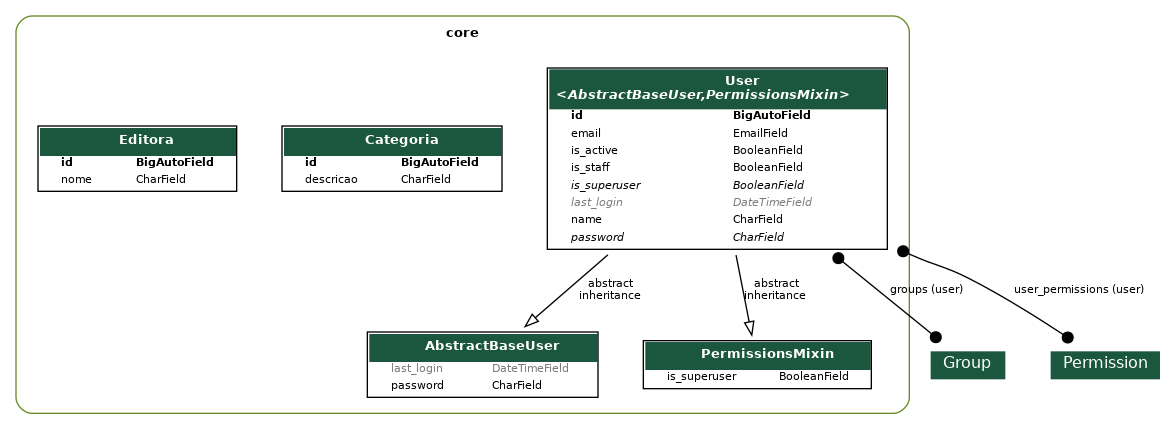
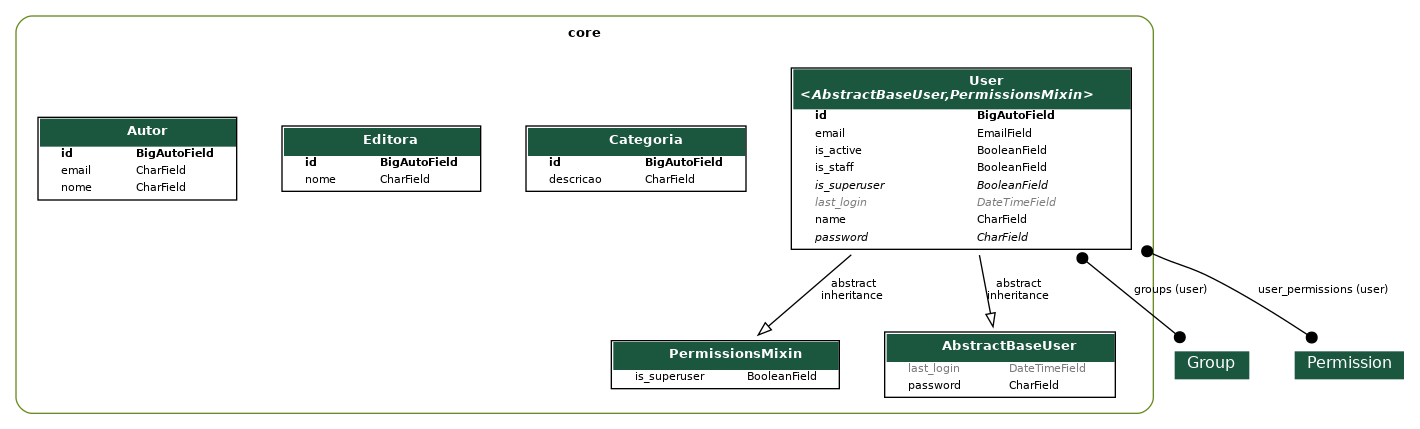
Criação API para classe autor

diff --git a/app/urls.py b/app/urls.py
@@ -9,13 +9,14 @@ from drf_spectacular.views import (
 from rest_framework.routers import DefaultRouter
 from rest_framework_simplejwt.views import TokenObtainPairView, TokenRefreshView
 
-from core.views import UserViewSet, CategoriaViewSet, EditoraViewSet
+from core.views import UserViewSet, CategoriaViewSet, EditoraViewSet, AutorViewSet
 
 router = DefaultRouter()
 
 router.register(r"users", UserViewSet, basename="users")
 router.register(r"categorias", CategoriaViewSet, basename="categorias")
 router.register(r"editoras", EditoraViewSet, basename="editoras")
+router.register(r"autores", AutorViewSet, basename="autores")
 
 urlpatterns = [
     path("admin/", admin.site.urls),

diff --git a/core/migrations/0004_autor.py b/core/migrations/0004_autor.py
@@ -1,0 +1,21 @@
+# Generated by Django 5.0.2 on 2024-03-18 14:17
+
+from django.db import migrations, models
+
+
+class Migration(migrations.Migration):
+
+    dependencies = [
+        ("core", "0003_editora"),
+    ]
+
+    operations = [
+        migrations.CreateModel(
+            name="Autor",
+            fields=[
+                ("id", models.BigAutoField(auto_created=True, primary_key=True, serialize=False, verbose_name="ID")),
+                ("nome", models.CharField(max_length=100)),
+                ("email", models.CharField(max_length=100)),
+            ],
+        ),
+    ]

diff --git a/core/views/autor.py b/core/views/autor.py
@@ -1,0 +1,8 @@
+from rest_framework.viewsets import ModelViewSet
+
+from core.models import Autor
+from core.serializers import AutorSerializer
+
+class AutorViewSet(ModelViewSet):
+    queryset = Autor.objects.all()
+    serializer_class = AutorSerializer

diff --git a/core/models/autor.py b/core/models/autor.py
@@ -1,0 +1,7 @@
+from django.db import models
+
+class Autor(models.Model):
+    nome = models.CharField(max_length=100)
+    email = models.CharField(max_length=100)
+    def __str__(self):
+        return self.nome

diff --git a/core/serializers/autor.py b/core/serializers/autor.py
@@ -1,0 +1,8 @@
+from rest_framework.serializers import ModelSerializer
+
+from core.models import Autor
+
+class AutorSerializer(ModelSerializer):
+    class Meta:
+        model = Autor
+        fields = "__all__"

diff --git a/core/serializers/__init__.py b/core/serializers/__init__.py
@@ -1,3 +1,4 @@
 from .user import UserSerializer
 from .categoria import CategoriaSerializer
 from .editora import EditoraSerializer
+from .autor import AutorSerializer

diff --git a/core/views/__init__.py b/core/views/__init__.py
@@ -1,3 +1,4 @@
 from .user import UserViewSet
 from .categoria import CategoriaViewSet
 from .editora import EditoraViewSet
+from .autor import AutorViewSet

diff --git a/core/models/__init__.py b/core/models/__init__.py
@@ -2,3 +2,4 @@ from .user import User
 
 from .categoria import Categoria
 from .editora import Editora
+from .autor import Autor
